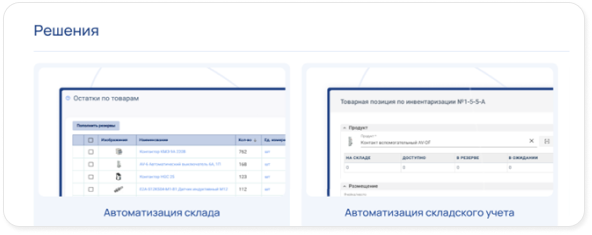
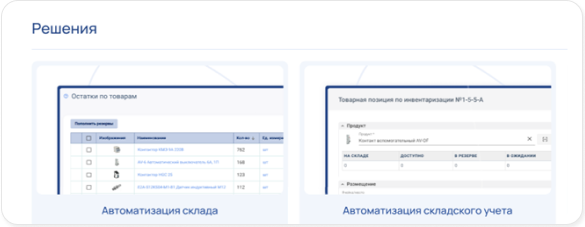
fix: correct styles

diff --git a/ems-sklad/src/scss/tabSection/_tabSection.scss b/ems-sklad/src/scss/tabSection/_tabSection.scss
@@ -79,6 +79,8 @@
     left: 0;
     width: 100%;
     z-index: 5;
+    border-bottom-right-radius: 8px;
+    border-bottom-left-radius: 8px;
   }
 
   &__dropdown-list.show {
@@ -110,6 +112,7 @@
     background-size: cover;
     background-repeat: no-repeat;
     margin-bottom: 20px;
+    border-radius: 16px;
 
     position: absolute;
     top: 0;
@@ -268,6 +271,10 @@
     &__card:nth-child(1) {
       background-image: url('../assets/images/tab1-mobile.png');
       background-position: bottom;
+
+      & .tabSection__title {
+        max-width: 220px;
+      }
     }
     &__card:nth-child(2) {
       background-image: url('../assets/images/tab2-mobile.png');
@@ -303,6 +310,8 @@
     &__card {
       align-items: flex-start;
       padding-top: 20px;
+      padding-right: 20px;
+      border-radius: 10px;
     }
 
     &__card:nth-child(4) {

diff --git a/ems-sklad/src/scss/devSection/_devSection.scss b/ems-sklad/src/scss/devSection/_devSection.scss
@@ -118,6 +118,10 @@
     width: 100%;
   }
 
+  &__bottom-image.mobile {
+    display: none;
+  }
+
   @media (max-width: 1050px) {
     &__picture {
       min-height: auto;
@@ -201,6 +205,26 @@
   }
 
   @media (max-width: $breakpoints-xs) {
+    &__top {
+      margin-bottom: 36px;
+    }
+
+    &__top-right {
+      padding-bottom: 0;
+    }
+
+    &__picture.mobile {
+      margin-bottom: 20px;
+    }
+
+    &__icon-box {
+      margin-bottom: 6px;
+    }
+
+    &__center {
+      gap: 0;
+    }
+
     &__bottom-pic {
       min-height: 315px;
       transform: translate(0);
@@ -210,6 +234,14 @@
     &__bottom-image {
       border-radius: 16px;
       object-fit: cover;
+    }
+
+    &__bottom-image.mobile {
+      display: block;
+    }
+
+    &__bottom-image {
+      display: none;
     }
   }
 }

diff --git a/ems-sklad/src/scss/descriptionSection/_descriptionSection.scss b/ems-sklad/src/scss/descriptionSection/_descriptionSection.scss
@@ -155,6 +155,11 @@
       padding-block: 0 20px;
     }
 
+    &__card:nth-child(3) .descriptionSection__card-left {
+      padding-top: 0;
+      padding-right: 0;
+    }
+
     &__card-text {
       line-height: 139%;
     }
@@ -170,10 +175,12 @@
 
     &__card:nth-child(3) .descriptionSection__card-right {
       min-height: 269px;
+      border-radius: 13px;
 
       & img {
         object-fit: cover;
         min-height: 269px;
+        border-radius: 13px;
       }
     }
   }

diff --git a/ems-sklad/src/scss/headerSection/_headerSection.scss b/ems-sklad/src/scss/headerSection/_headerSection.scss
@@ -26,7 +26,6 @@
     max-width: fit-content;
     padding: 10px 24px;
     border-radius: 10px;
-    backdrop-filter: blur(80.69999694824219px);
     background: #fff;
     font-family: $font-family;
     font-weight: 400;

diff --git a/ems-sklad/src/scss/factoryScection/_factorySection.scss b/ems-sklad/src/scss/factoryScection/_factorySection.scss
@@ -52,6 +52,7 @@
     background-position: center;
     background-size: cover;
     background-repeat: no-repeat;
+    border-radius: 16px;
   }
 
   &__center-content {

diff --git a/ems-sklad/src/scss/newsSection/_newsSection.scss b/ems-sklad/src/scss/newsSection/_newsSection.scss
@@ -34,7 +34,9 @@
   }
 
   @media (max-width: $breakpoints-xs) {
+    height: 670px;
     padding-top: 24px;
+    overflow: hidden;
 
     &__pic {
       height: 370px;

diff --git a/ems-sklad/src/scss/main.scss b/ems-sklad/src/scss/main.scss
@@ -20,7 +20,7 @@
   box-sizing: border-box;
   padding: 0;
   margin: 0;
-  //  outline: 1px solid red;
+  // outline: 1px solid red;
 }
 
 html {

diff --git a/ems-sklad/src/scss/startSection/_startSection.scss b/ems-sklad/src/scss/startSection/_startSection.scss
@@ -208,8 +208,9 @@
     }
 
     &__pic {
-      width: 335px;
+      max-width: 335px;
       height: 230px;
+      left: 0;
     }
   }
 

diff --git a/ems-sklad/src/scss/tariffSection/_tariffSection.scss b/ems-sklad/src/scss/tariffSection/_tariffSection.scss
@@ -37,5 +37,9 @@
     &__content {
       max-width: 100%;
     }
+
+    &__title {
+      margin-bottom: 8px;
+    }
   }
 }

diff --git a/ems-sklad/src/scss/teamSection/_teamSection.scss b/ems-sklad/src/scss/teamSection/_teamSection.scss
@@ -86,5 +86,9 @@
     &__left {
       min-height: auto;
     }
+
+    &__bottom-btn {
+      font-size: 16px;
+    }
   }
 }
